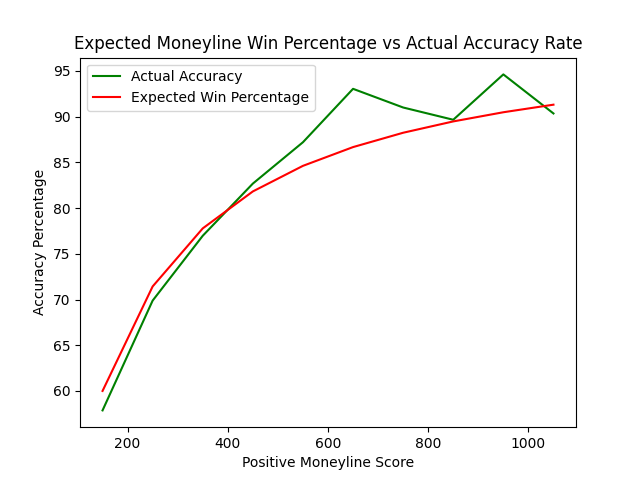
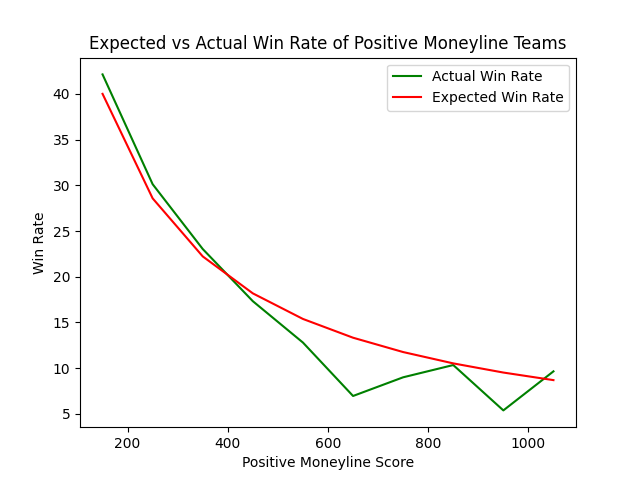
small bug

diff --git a/accuracy/src/accuracy/accuracyFunctionPositiveMoneylines.py b/accuracy/src/accuracy/accuracyFunctionPositiveMoneylines.py
@@ -54,10 +54,12 @@ def performChecks(season, seasons,
     return contain and moneyline and notNull
 
 
-def getPrediction(homeMoneyline, awayMoneyline):
-    if homeMoneyline == "NaN":
-        return float(awayMoneyline) > 0
-    return float(homeMoneyline) < 0
+def getPrediction(homeMoneyline):
+    if float(homeMoneyline) > 0:
+        return 1
+    else:
+        return 0
+    
     
 
 
@@ -67,8 +69,7 @@ def getAccuracy(seasons, minMoneyline, maxMoneyline):
 
         predicted = 0
         total = 0
-        totalOver = 0
-        totalUnder = 0
+
 
         for game in games:
             season = int(game["season"])
@@ -81,23 +82,18 @@ def getAccuracy(seasons, minMoneyline, maxMoneyline):
                              minMoneyline, maxMoneyline, homeMoneyline, awayMoneyline):
                 total = total + 1
 
-                prediction = getPrediction(homeMoneyline, awayMoneyline)
+                prediction = getPrediction(homeMoneyline)
                 result = float(game["result"])
-                if (prediction and result == 1) or (not prediction and result == 0):
-                    predicted = predicted + 1            
-
-                else:
-                    if prediction:
-                        totalOver = totalOver + 1
-                    else:
-                        totalUnder = totalUnder + 1
+                if prediction == result:
+                    predicted =predicted + 1 
+                
         if total == 0:
             print("no games")
-            return (0,0, 0, 0)
+            return (0,0)
         else:
             accuracy = round(100* predicted / total, 4)
-            print((accuracy, total, totalOver, totalUnder))
-            return (accuracy, total, totalOver, totalUnder)
+            print((accuracy, total))
+            return (accuracy, total)
 
 
 getAccuracy([],"","")

diff --git a/accuracy/src/accuracy/moneylinePercentages.py b/accuracy/src/accuracy/moneylinePercentages.py
@@ -15,15 +15,15 @@ for i in range(1, 11):
     labels.append(label)
     result = accuracyFunctionPositiveMoneylines.getAccuracy(seasons, lower, upper)
     accuracies.append(result[0])
-    expected.append(100 - (100 * 100/(label+100)))
+    expected.append(100 * 100/(label+100))
 
 
-plt.plot(labels, accuracies, color='green', label='Actual Accuracy')
-plt.plot(labels, expected, color='red', label='Expected Win Percentage')
+plt.plot(labels, accuracies, color='green', label='Actual Win Rate')
+plt.plot(labels, expected, color='red', label='Expected Win Rate')
 
 plt.xlabel("Positive Moneyline Score")
-plt.ylabel("Accuracy Percentage")
-plt.title("Expected Moneyline Win Percentage vs Actual Accuracy Rate")
+plt.ylabel("Win Rate")
+plt.title("Expected vs Actual Win Rate of Positive Moneyline Teams")
 plt.legend()
 plt.savefig('accuracy/visualizations/moneylinePercentages.png')
 plt.savefig('accuracy/visualizations/presentation/moneylinePercentagesPresentation.png')
